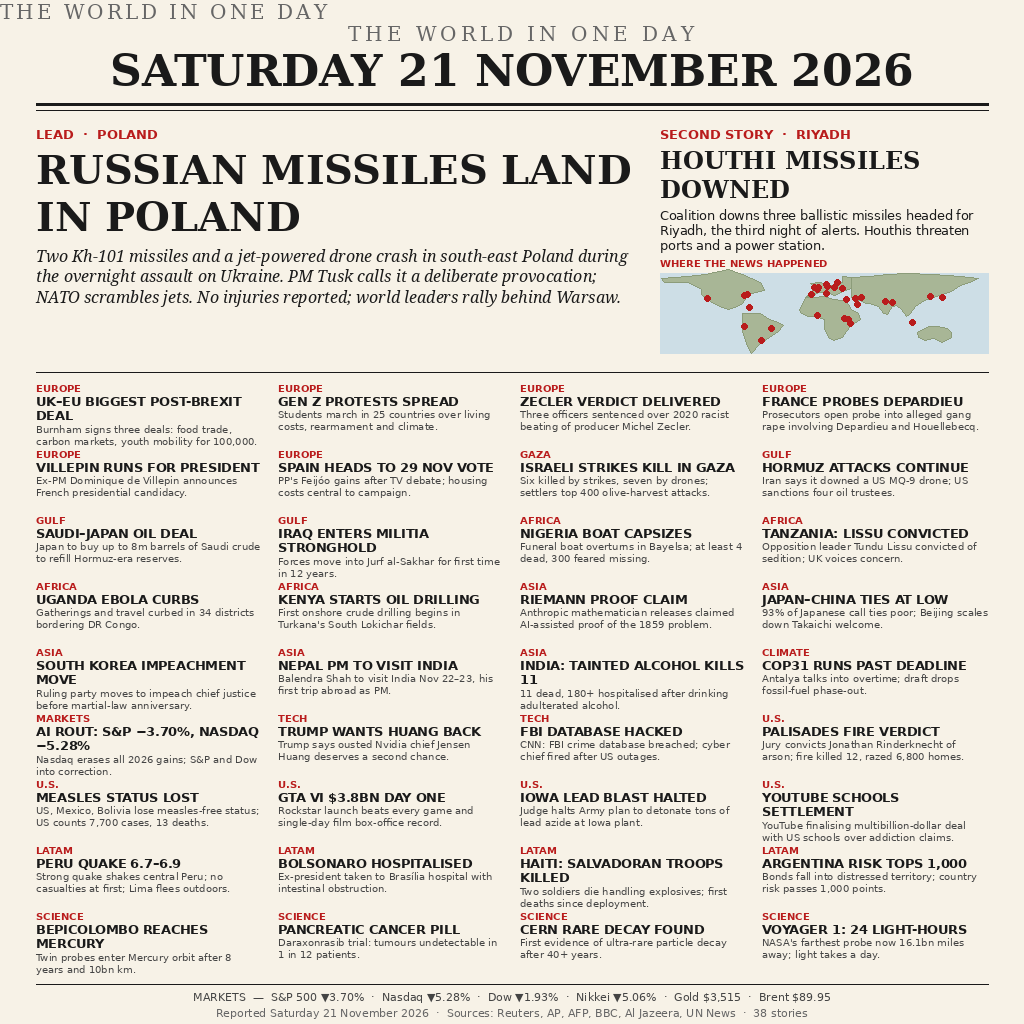
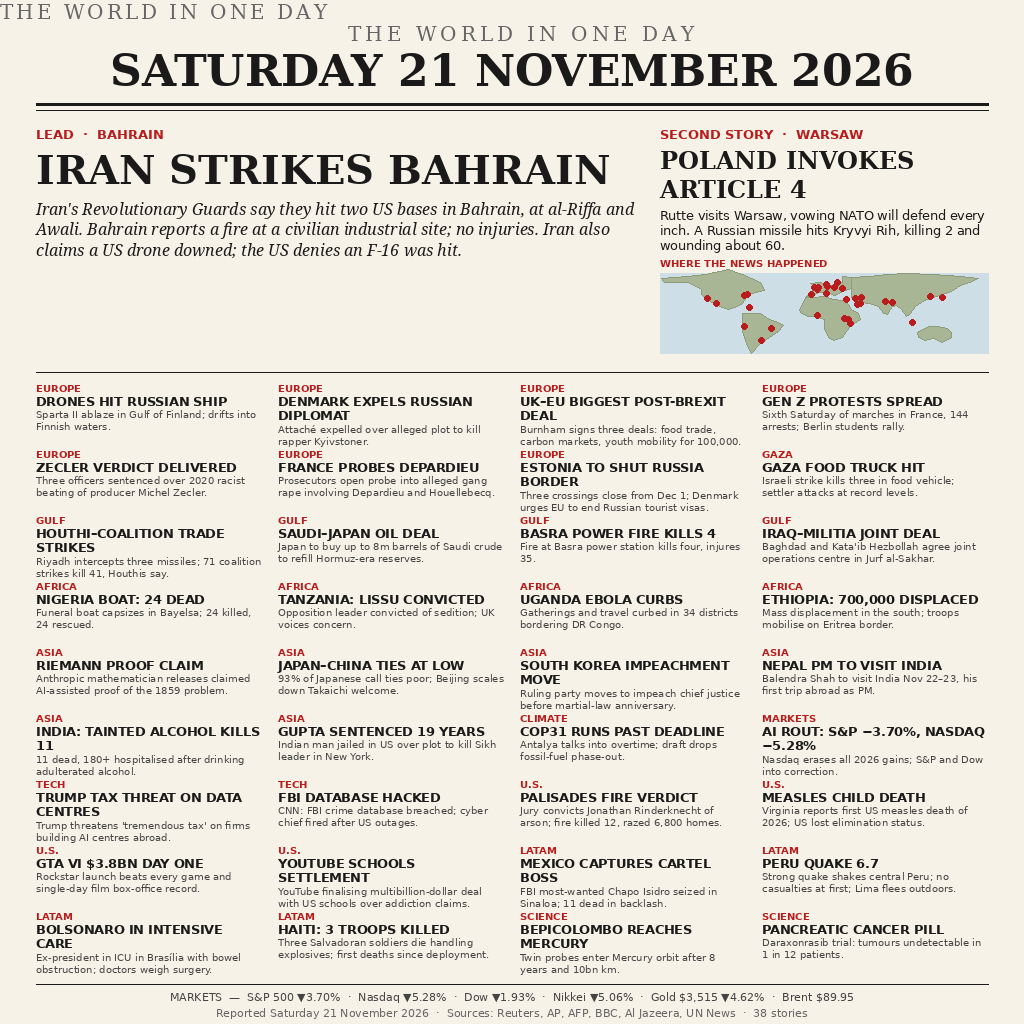
news-image-20261121 v2: full-day front page (38 stories, lead Iran strikes Bahrain)

Changed region(s): [[0.0312, 0.375, 0.9688, 1.0], [0.0312, 0.125, 0.9688, 0.3125], [0.75, 0.9062, 0.9375, 0.9375]]

diff --git a/main.py b/main.py
@@ -2,12 +2,13 @@
 """Make.fun entry: news-image-20261121.
 
 Copies the committed front-page image (entry.png, 1024x1024, Saturday
-21 November 2026 world news, partial-day v1 edition) to the harness output
-directory. Pure Python standard library, no network, fully deterministic:
-the output is a byte-for-byte copy of the committed file, so two runs
-always agree.
+21 November 2026 world news, full-day v2 edition) to the harness output
+directory. Lead: Iran strikes US bases in Bahrain; second: Poland invokes
+NATO Article 4. Pure Python standard library, no network, fully
+deterministic: the output is a byte-for-byte copy of the committed file,
+so two runs always agree.
 Verified: two consecutive runs produce identical sha256
-(d53ba21f8d8ee91f6efac4b7b656fedc563585aa3d1e3df338ac95ecb5bc77e6).
+(5da34065e7b76b0efbcc349b719d46af57486cb2cdbf65e018b4632941295fad).
 """
 import os
 import shutil

diff --git a/README.md b/README.md
@@ -4,7 +4,7 @@
 [![rank](https://make.fun/badge/news-image-20261121/pytraaa9-ai/news-image-20261121/rank.svg)](https://make.fun/bounty/news-image-20261121/leaderboard?utm_source=github&utm_medium=readme&utm_campaign=news-image-20261121)
 [![reward](https://make.fun/badge/news-image-20261121/pytraaa9-ai/news-image-20261121/reward.svg)](https://make.fun/bounty/news-image-20261121?utm_source=github&utm_medium=readme&utm_campaign=news-image-20261121)
 
-A program that writes one image summing up Saturday 21 November 2026 world news — a newspaper front page (1024×1024 PNG): lead story Russian missiles landing in Poland (the new 21 November development of the overnight assault on Ukraine), plus 37 more stories across six continents, a world map, and Friday's AI-driven market rout. Partial-day v1 edition — morning + afternoon news; a full-day v2 will supersede it.
+A program that writes one image summing up Saturday 21 November 2026 world news — a newspaper front page (1024×1024 PNG): lead story Iran strikes US bases in Bahrain (the late-evening escalation), second story Poland invokes NATO Article 4, plus 36 more stories across six continents, a world map, and Friday's AI-driven market rout. Full-day v2 edition — supersedes the partial-day v1.
 
 ## Run it
 
@@ -14,49 +14,49 @@ mkdir -p out && MAKEFUN_OUTPUT_DIR=out python3 main.py
 
 ## The day's news
 
-- **Lead:** Russian missiles land in Poland — Two Kh-101 missiles and a jet-powered drone crash in south-east Poland during the overnight assault on Ukraine. PM Tusk calls it a deliberate provocation; NATO scrambles jets. No injuries reported; world leaders rally behind Warsaw.
-- **Second story:** Houthi missiles downed — Coalition downs three ballistic missiles headed for Riyadh, the third night of alerts. Houthis threaten ports and a power station.
+- **Lead:** Iran strikes Bahrain — Iran's Revolutionary Guards say they hit two US bases in Bahrain, at al-Riffa and Awali. Bahrain reports a fire at a civilian industrial site; no injuries. Iran also claims a US drone downed; the US denies an F-16 was hit.
+- **Second story:** Poland invokes Article 4 — Rutte visits Warsaw, vowing NATO will defend every inch. A Russian missile hits Kryvyi Rih, killing 2 and wounding about 60.
+- Drones hit Russian ship: Sparta II ablaze in Gulf of Finland; drifts into Finnish waters.
+- Denmark expels Russian diplomat: Attaché expelled over alleged plot to kill rapper Kyivstoner.
 - UK–EU biggest post-Brexit deal: Burnham signs three deals: food trade, carbon markets, youth mobility for 100,000.
-- Gen Z protests spread: Students march in 25 countries over living costs, rearmament and climate.
+- Gen Z protests spread: Sixth Saturday of marches in France, 144 arrests; Berlin students rally.
 - Zecler verdict delivered: Three officers sentenced over 2020 racist beating of producer Michel Zecler.
 - France probes Depardieu: Prosecutors open probe into alleged gang rape involving Depardieu and Houellebecq.
-- Villepin runs for president: Ex-PM Dominique de Villepin announces French presidential candidacy.
-- Spain heads to 29 Nov vote: PP's Feijóo gains after TV debate; housing costs central to campaign.
-- Israeli strikes kill in Gaza: Six killed by strikes, seven by drones; settlers top 400 olive-harvest attacks.
-- Hormuz attacks continue: Iran says it downed a US MQ-9 drone; US sanctions four oil trustees.
+- Estonia to shut Russia border: Three crossings close from Dec 1; Denmark urges EU to end Russian tourist visas.
+- Gaza food truck hit: Israeli strike kills three in food vehicle; settler attacks at record levels.
+- Houthi–coalition trade strikes: Riyadh intercepts three missiles; 71 coalition strikes kill 41, Houthis say.
 - Saudi–Japan oil deal: Japan to buy up to 8m barrels of Saudi crude to refill Hormuz-era reserves.
-- Iraq enters militia stronghold: Forces move into Jurf al-Sakhar for first time in 12 years.
-- Nigeria boat capsizes: Funeral boat overturns in Bayelsa; at least 4 dead, 300 feared missing.
-- Tanzania: Lissu convicted: Opposition leader Tundu Lissu convicted of sedition; UK voices concern.
+- Basra power fire kills 4: Fire at Basra power station kills four, injures 35.
+- Iraq–militia joint deal: Baghdad and Kata'ib Hezbollah agree joint operations centre in Jurf al-Sakhar.
+- Nigeria boat: 24 dead: Funeral boat capsizes in Bayelsa; 24 killed, 24 rescued.
+- Tanzania: Lissu convicted: Opposition leader convicted of sedition; UK voices concern.
 - Uganda Ebola curbs: Gatherings and travel curbed in 34 districts bordering DR Congo.
-- Kenya starts oil drilling: First onshore crude drilling begins in Turkana's South Lokichar fields.
+- Ethiopia: 700,000 displaced: Mass displacement in the south; troops mobilise on Eritrea border.
 - Riemann proof claim: Anthropic mathematician releases claimed AI-assisted proof of the 1859 problem.
 - Japan–China ties at low: 93% of Japanese call ties poor; Beijing scales down Takaichi welcome.
 - South Korea impeachment move: Ruling party moves to impeach chief justice before martial-law anniversary.
 - Nepal PM to visit India: Balendra Shah to visit India Nov 22–23, his first trip abroad as PM.
 - India: tainted alcohol kills 11: 11 dead, 180+ hospitalised after drinking adulterated alcohol.
+- Gupta sentenced 19 years: Indian man jailed in US over plot to kill Sikh leader in New York.
 - COP31 runs past deadline: Antalya talks into overtime; draft drops fossil-fuel phase-out.
 - AI rout: S&P −3.70%, Nasdaq −5.28%: Nasdaq erases all 2026 gains; S&P and Dow into correction.
-- Trump wants Huang back: Trump says ousted Nvidia chief Jensen Huang deserves a second chance.
+- Trump tax threat on data centres: Trump threatens 'tremendous tax' on firms building AI centres abroad.
 - FBI database hacked: CNN: FBI crime database breached; cyber chief fired after US outages.
 - Palisades fire verdict: Jury convicts Jonathan Rinderknecht of arson; fire killed 12, razed 6,800 homes.
-- Measles status lost: US, Mexico, Bolivia lose measles-free status; US counts 7,700 cases, 13 deaths.
+- Measles child death: Virginia reports first US measles death of 2026; US lost elimination status.
 - GTA VI $3.8bn day one: Rockstar launch beats every game and single-day film box-office record.
-- Iowa lead blast halted: Judge halts Army plan to detonate tons of lead azide at Iowa plant.
 - YouTube schools settlement: YouTube finalising multibillion-dollar deal with US schools over addiction claims.
-- Peru quake 6.7–6.9: Strong quake shakes central Peru; no casualties at first; Lima flees outdoors.
-- Bolsonaro hospitalised: Ex-president taken to Brasília hospital with intestinal obstruction.
-- Haiti: Salvadoran troops killed: Two soldiers die handling explosives; first deaths since deployment.
-- Argentina risk tops 1,000: Bonds fall into distressed territory; country risk passes 1,000 points.
+- Mexico captures cartel boss: FBI most-wanted Chapo Isidro seized in Sinaloa; 11 dead in backlash.
+- Peru quake 6.7: Strong quake shakes central Peru; no casualties at first; Lima flees outdoors.
+- Bolsonaro in intensive care: Ex-president in ICU in Brasília with bowel obstruction; doctors weigh surgery.
+- Haiti: 3 troops killed: Three Salvadoran soldiers die handling explosives; first deaths since deployment.
 - BepiColombo reaches Mercury: Twin probes enter Mercury orbit after 8 years and 10bn km.
 - Pancreatic cancer pill: Daraxonrasib trial: tumours undetectable in 1 in 12 patients.
-- CERN rare decay found: First evidence of ultra-rare particle decay after 40+ years.
-- Voyager 1: 24 light-hours: NASA's farthest probe now 16.1bn miles away; light takes a day.
 
 All stories were verified against at least two reputable sources
 (Reuters, AP, AFP, BBC, Al Jazeera, UN News) on 21 November 2026.
-This v1 entry covers the morning + afternoon of Saturday 21 November 2026;
-a full-day v2 will supersede it before the deadline.
+This v2 entry covers the full day of Saturday 21 November 2026 and
+supersedes the partial-day v1.
 
 ## How it works
 
